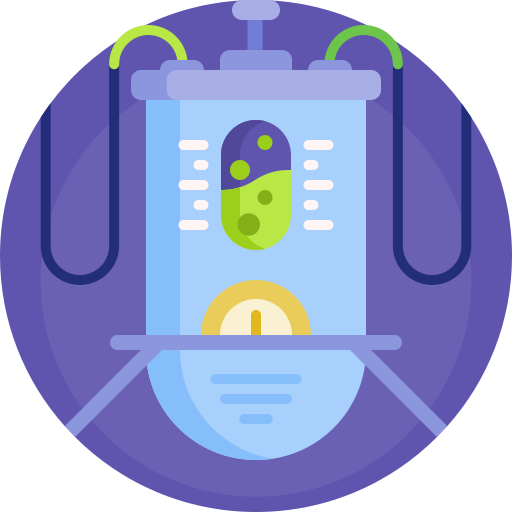
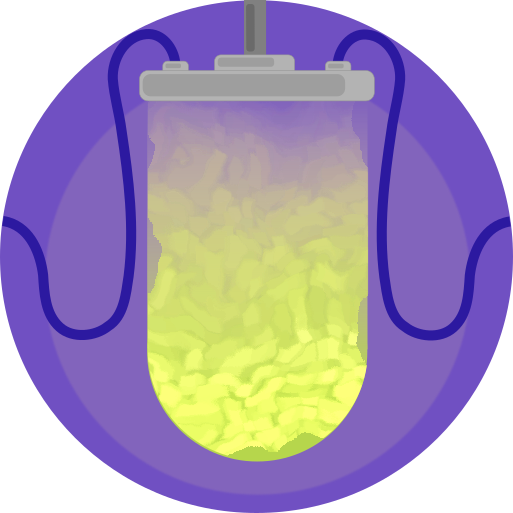
chore: update reactor pic, edit footer

diff --git a/src/components/Footer/index.tsx b/src/components/Footer/index.tsx
@@ -5,29 +5,24 @@ import * as S from "./styles";
 const Footer = () => {
   return (
     <S.Footer>
-      Based on the macrokinetic growth model from
+      Based on the macrokinetic growth model from{" "}
       <em>
         Anane E, Neubauer P, Bournazou MN. Modelling overflow metabolism in
         Escherichia coli by acetate cycling. Biochemical engineering journal.
         2017 Sep 15;125:23-30.
-      </em>
-        {' '} with modified parameters. Simulation is significantly accelerated in time
-      (10 seconds = 1 hour).
-        / Basierend auf dem makrokinetischen
-        Wachstumsmodell von
-        <em>
-            Anane E, Neubauer P, Bournazou MN. Modelling overflow metabolism in
-            Escherichia coli by acetate cycling. Biochemical engineering journal.
-            2017 Sep 15;125:23-30.
-        </em>
-        {' '}mit geänderten Parametern.
-        Die Simulation wird zeitlich deutlich
+      </em>{" "}
+      with modified parameters. Simulation is significantly accelerated in time
+      (10 seconds = 1 hour). / Basierend auf dem makrokinetischen
+      Wachstumsmodell von{" "}
+      <em>
+        Anane E, Neubauer P, Bournazou MN. Modelling overflow metabolism in
+        Escherichia coli by acetate cycling. Biochemical engineering journal.
+        2017 Sep 15;125:23-30.
+      </em>{" "}
+      mit geänderten Parametern. Die Simulation wird zeitlich deutlich
       beschleunigt (10 Sekunden = 1 Stunde).
       <br />
-      Created by{" "}
-      <a href="https://fremorie.github.io/" target="_blank">
-        Daria Borisiak.
-      </a>
+      Developed by Daria Borisiak. Image created by Judit Aizpuru.
     </S.Footer>
   );
 };

diff --git a/src/components/Reactor/styles.ts b/src/components/Reactor/styles.ts
@@ -8,7 +8,7 @@ const canvasTopDefault = 156;
 const canvasLeftDefault = 229;
 export const imgSizeDefault = 800;
 export const canvasHeightDefault = 559;
-export const canvasWidthDefault = 340;
+export const canvasWidthDefault = 342;
 
 const canvasTop = `${canvasTopDefault / (imgSizeDefault / 100)}%`;
 const canvasLeft = `${canvasLeftDefault / (imgSizeDefault / 100)}%`;
